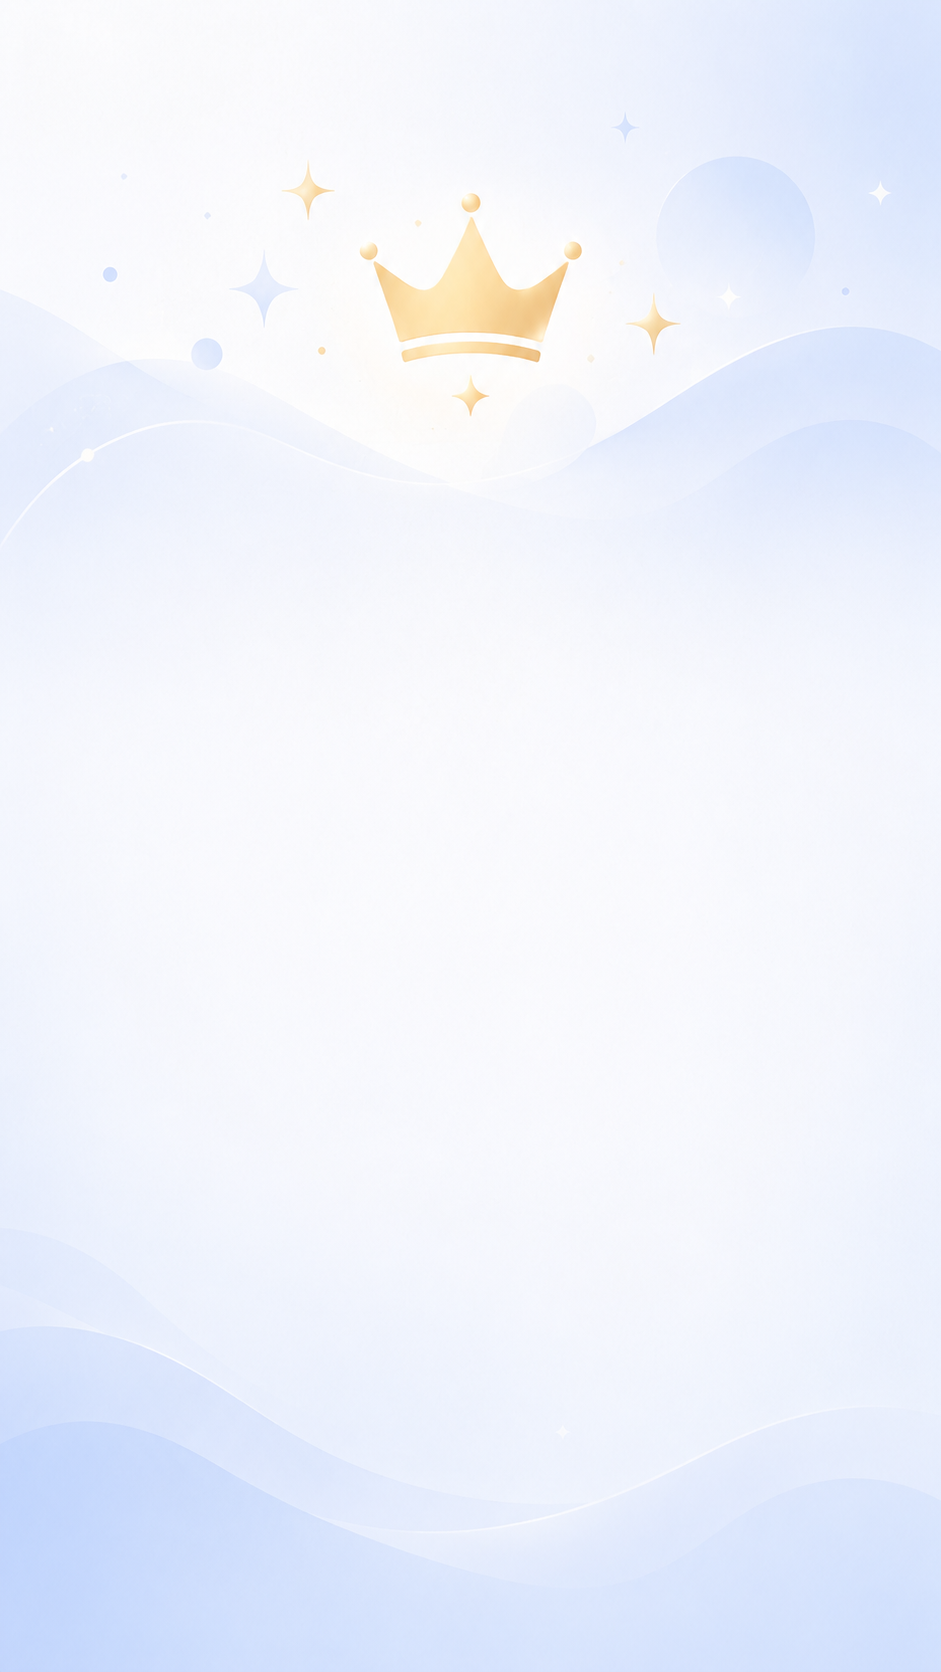
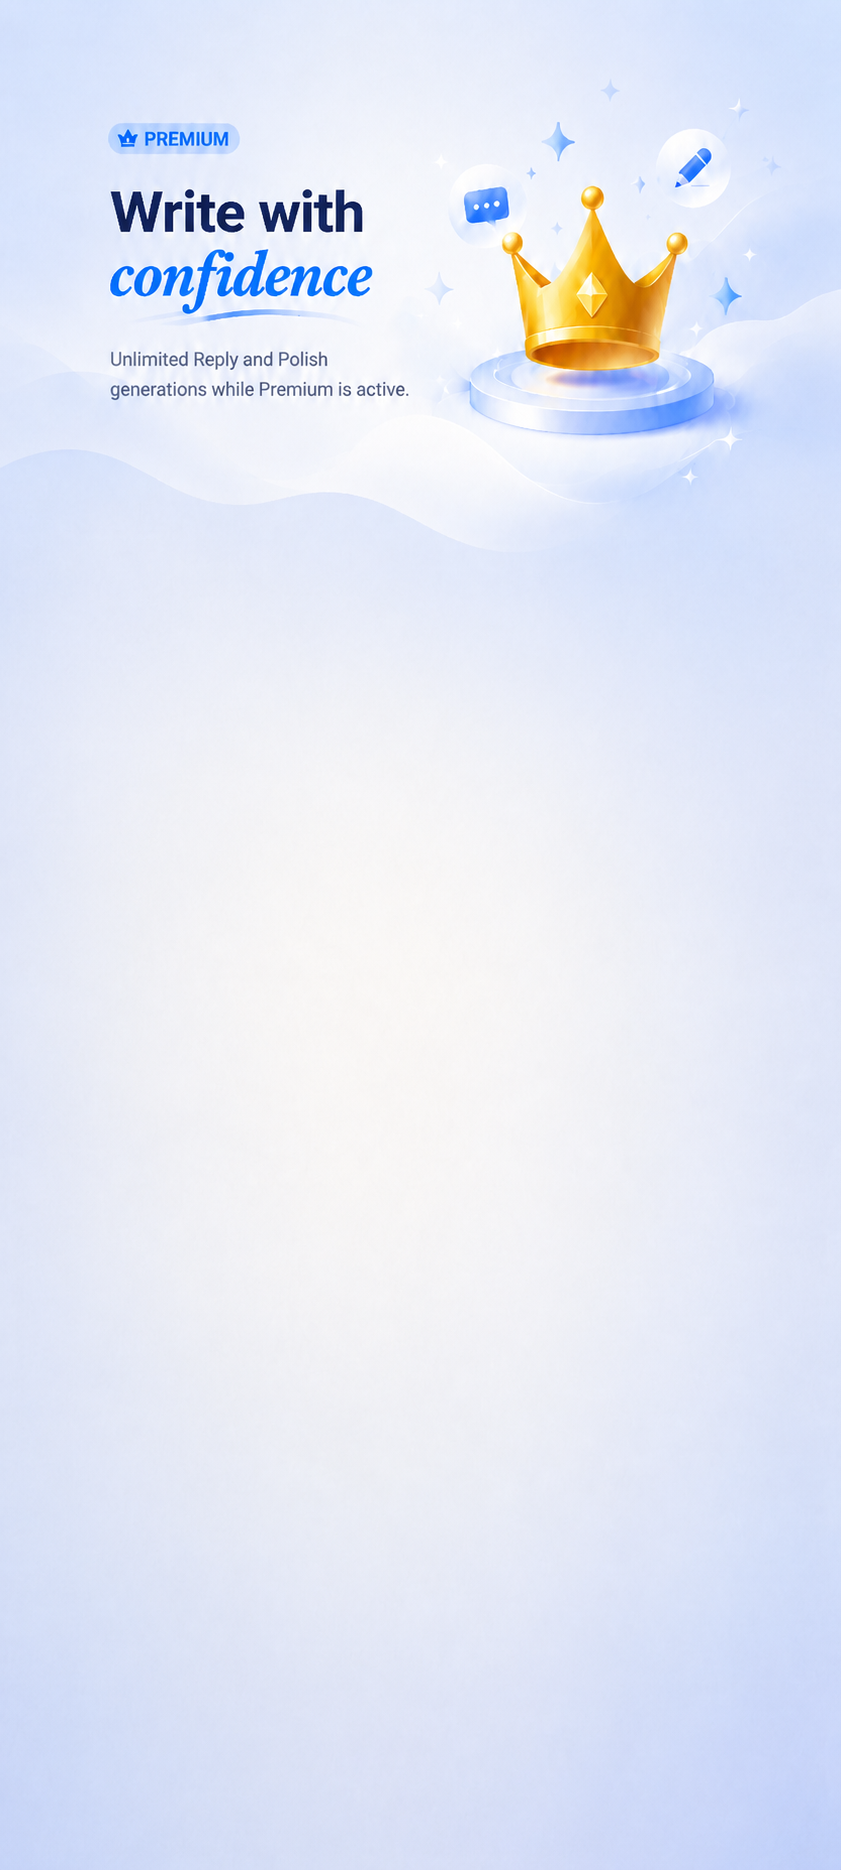
polished premium page

diff --git a/app/lib/features/paywall/paywall_screen.dart b/app/lib/features/paywall/paywall_screen.dart
@@ -62,29 +62,28 @@ class _PaywallScreenState extends ConsumerState<PaywallScreen> {
     final price = subscription.offer?.priceString ?? 'the displayed price';
     return AppPage(
       title: 'ReplyWise Premium',
-      showBackButton: true,
+      showAppBar: false,
+      backgroundImagePath: 'assets/image/premium_page_backgroud.png',
+      backgroundImageFit: BoxFit.fitWidth,
+      backgroundImageAlignment: Alignment.topCenter,
       child: ListView(
         keyboardDismissBehavior: ScrollViewKeyboardDismissBehavior.onDrag,
         padding: const EdgeInsets.fromLTRB(16, 18, 16, 32),
         children: [
-          const Icon(
-            Icons.auto_awesome_rounded,
-            color: AppColors.primaryBlue,
-            size: 42,
+          Stack(
+            children: [
+              const SizedBox(key: Key('premium-intro-spacer'), height: 130.4),
+              Positioned(
+                left: -8,
+                top: 0,
+                child: IconButton(
+                  tooltip: 'Back',
+                  onPressed: () => Navigator.of(context).maybePop(),
+                  icon: const Icon(Icons.arrow_back_rounded),
+                ),
+              ),
+            ],
           ),
-          const SizedBox(height: 12),
-          Text(
-            'Write with confidence',
-            textAlign: TextAlign.center,
-            style: AppTextStyles.sectionTitle,
-          ),
-          const SizedBox(height: 6),
-          Text(
-            'Unlimited Reply and Polish generations while Premium is active.',
-            textAlign: TextAlign.center,
-            style: AppTextStyles.body,
-          ),
-          const SizedBox(height: 24),
           GlassCard(
             child: Column(
               crossAxisAlignment: CrossAxisAlignment.stretch,

diff --git a/app/test/paywall_screen_test.dart b/app/test/paywall_screen_test.dart
@@ -148,6 +148,35 @@ Future<void> _pumpPaywall(
 // ── Tests ──────────────────────────────────────────────────────────────────────
 
 void main() {
+  testWidgets('paywall uses Premium background and has no header', (
+    tester,
+  ) async {
+    await _pumpPaywall(tester);
+
+    expect(find.byType(AppBar), findsNothing);
+    final background = tester.widget<Image>(
+      find.byWidgetPredicate(
+        (widget) =>
+            widget is Image &&
+            widget.image is AssetImage &&
+            (widget.image as AssetImage).assetName ==
+                'assets/image/premium_page_backgroud.png',
+      ),
+    );
+    expect(background.fit, BoxFit.fitWidth);
+    expect(background.alignment, Alignment.topCenter);
+    expect(find.byTooltip('Back'), findsOneWidget);
+    expect(find.byIcon(Icons.arrow_back_rounded), findsOneWidget);
+    expect(find.text('Write with confidence'), findsNothing);
+    expect(
+      find.text(
+        'Unlimited Reply and Polish generations while Premium is active.',
+      ),
+      findsNothing,
+    );
+    expect(find.byKey(const Key('premium-intro-spacer')), findsOneWidget);
+  });
+
   testWidgets('paywall shows yearly premium wording', (tester) async {
     await _pumpPaywall(tester);
 

diff --git a/app/lib/core/widgets/app_page.dart b/app/lib/core/widgets/app_page.dart
@@ -17,6 +17,8 @@ class AppPage extends StatelessWidget {
     this.headerIcon,
     this.subtitle,
     this.backgroundImagePath,
+    this.backgroundImageFit = BoxFit.cover,
+    this.backgroundImageAlignment = Alignment.center,
     this.transparentAppBar = false,
     this.centerTitle,
   });
@@ -32,6 +34,8 @@ class AppPage extends StatelessWidget {
   final IconData? headerIcon;
   final String? subtitle;
   final String? backgroundImagePath;
+  final BoxFit backgroundImageFit;
+  final AlignmentGeometry backgroundImageAlignment;
 
   /// When true the app bar is fully transparent and the body (including the
   /// background image) extends to the top of the screen, behind the header.
@@ -83,7 +87,11 @@ class AppPage extends StatelessWidget {
         children: [
           Positioned.fill(
             child: backgroundImagePath != null
-                ? Image.asset(backgroundImagePath!, fit: BoxFit.cover)
+                ? Image.asset(
+                    backgroundImagePath!,
+                    fit: backgroundImageFit,
+                    alignment: backgroundImageAlignment,
+                  )
                 : const ColoredBox(color: AppColors.backgroundBase),
           ),
           if (useSafeArea)